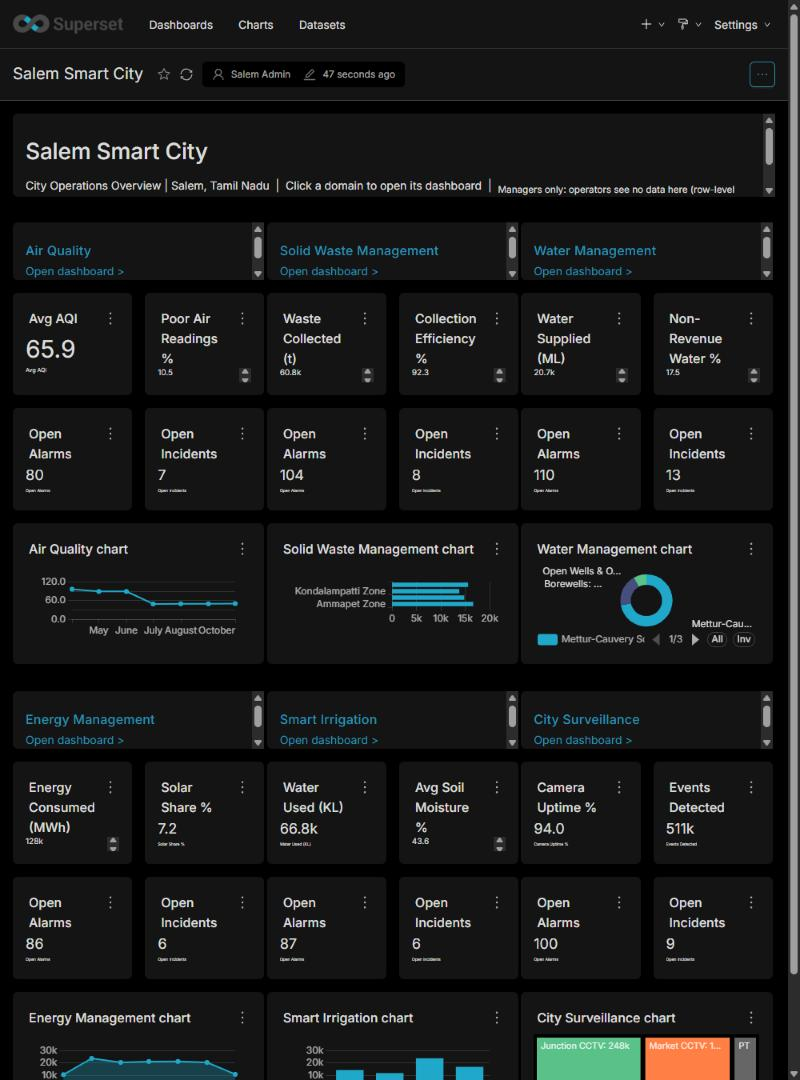
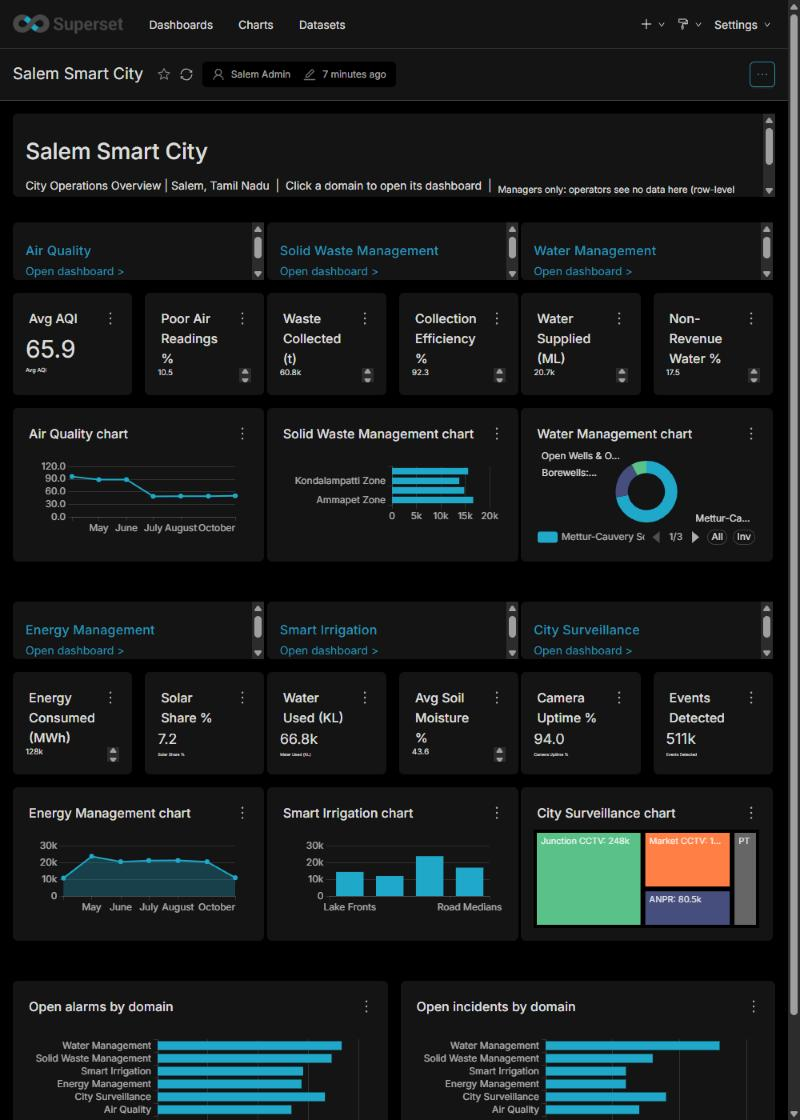
Superset: retake Overview screenshots for the slimmed layout

diff --git a/superset/README.md b/superset/README.md
@@ -10,14 +10,14 @@ The same smart-city report as the Power BI project, rebuilt in **Apache Superset
 |---|---|
 | Dashboards | 13: **Salem Smart City** (Overview) + Summary and Analysis for each of Air Quality, Solid Waste, Water, Energy, Smart Irrigation, City Surveillance |
 | Datasets | 8 (one per reporting view), with saved metrics that match the Power BI measures |
-| Charts | about 130: KPIs (big number), line, area, bar, donut, treemap, table |
+| Charts | about 130: KPIs (big number), line, area, bar, donut, treemap, table (the Overview has 20) |
 | RLS rules | 7: six static (one per operator role) + one dynamic |
 | Roles | `salem_manager`, six `salem_op_*` operator roles, `salem_dynamic` |
 | Navigation | Overview cards link to each domain's Summary; every domain dashboard has Home / Summary / Analysis links |
 
 ## Screenshots
 
-Manager: the Overview, six domain cards, a different chart type in each.
+Manager: the Overview, six domain cards (two KPIs and a different chart type in each) plus open alarms and open incidents by domain.
 
 ![Overview, manager](screenshots/01-overview-manager.jpg)
 
@@ -35,7 +35,7 @@ A domain dashboard (Air Quality, Summary and Analysis):
 
 ![Irrigation operator, Air Quality dashboard](screenshots/05-aq-summary-irrigation-operator-no-data.jpg)
 
-On the Overview, the same operator gets data only on the Smart Irrigation card:
+On the Overview, the same operator gets data only on the Smart Irrigation card, and the by-domain charts show only that domain:
 
 ![Overview, irrigation operator](screenshots/06-overview-irrigation-operator.jpg)
 
